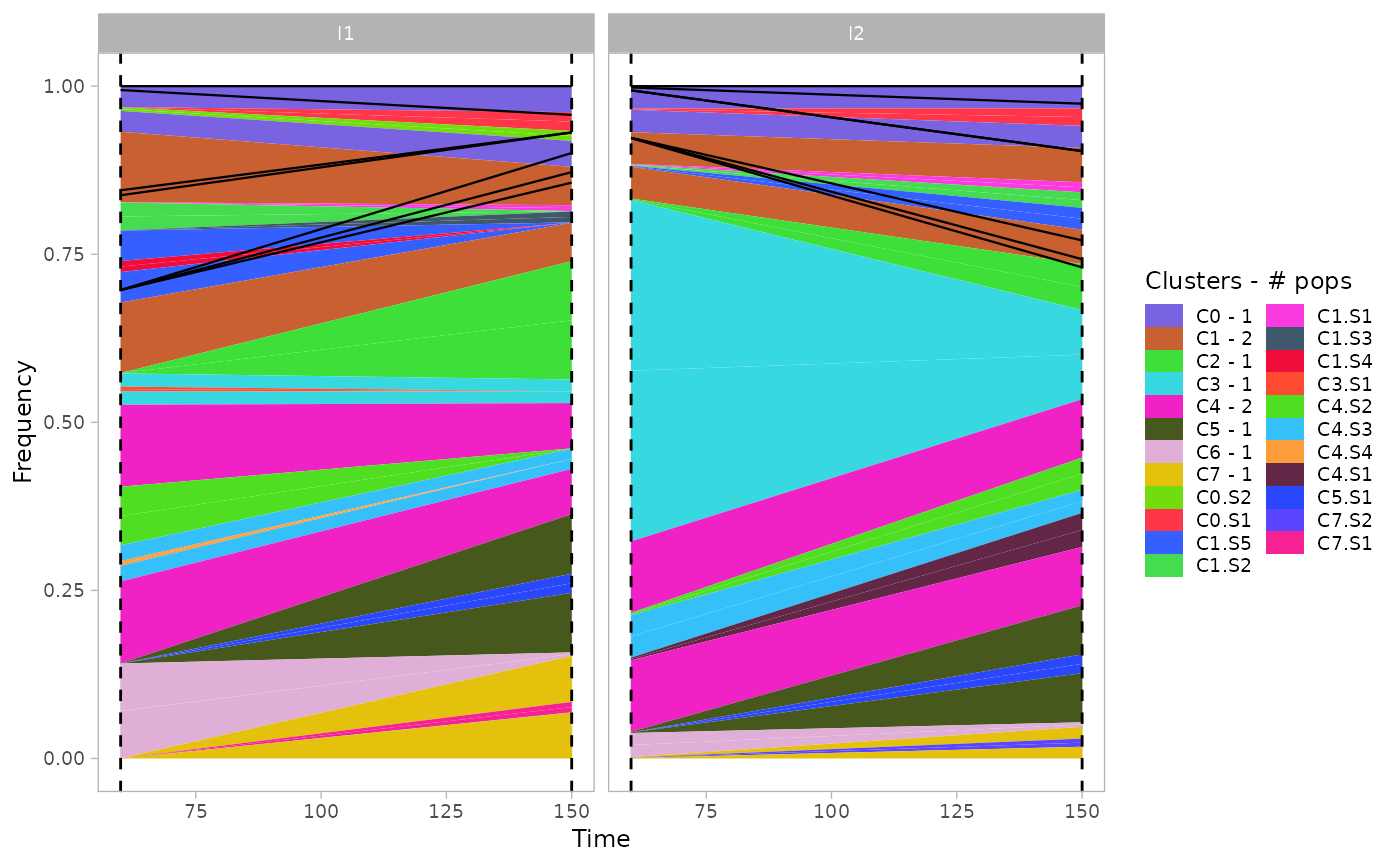
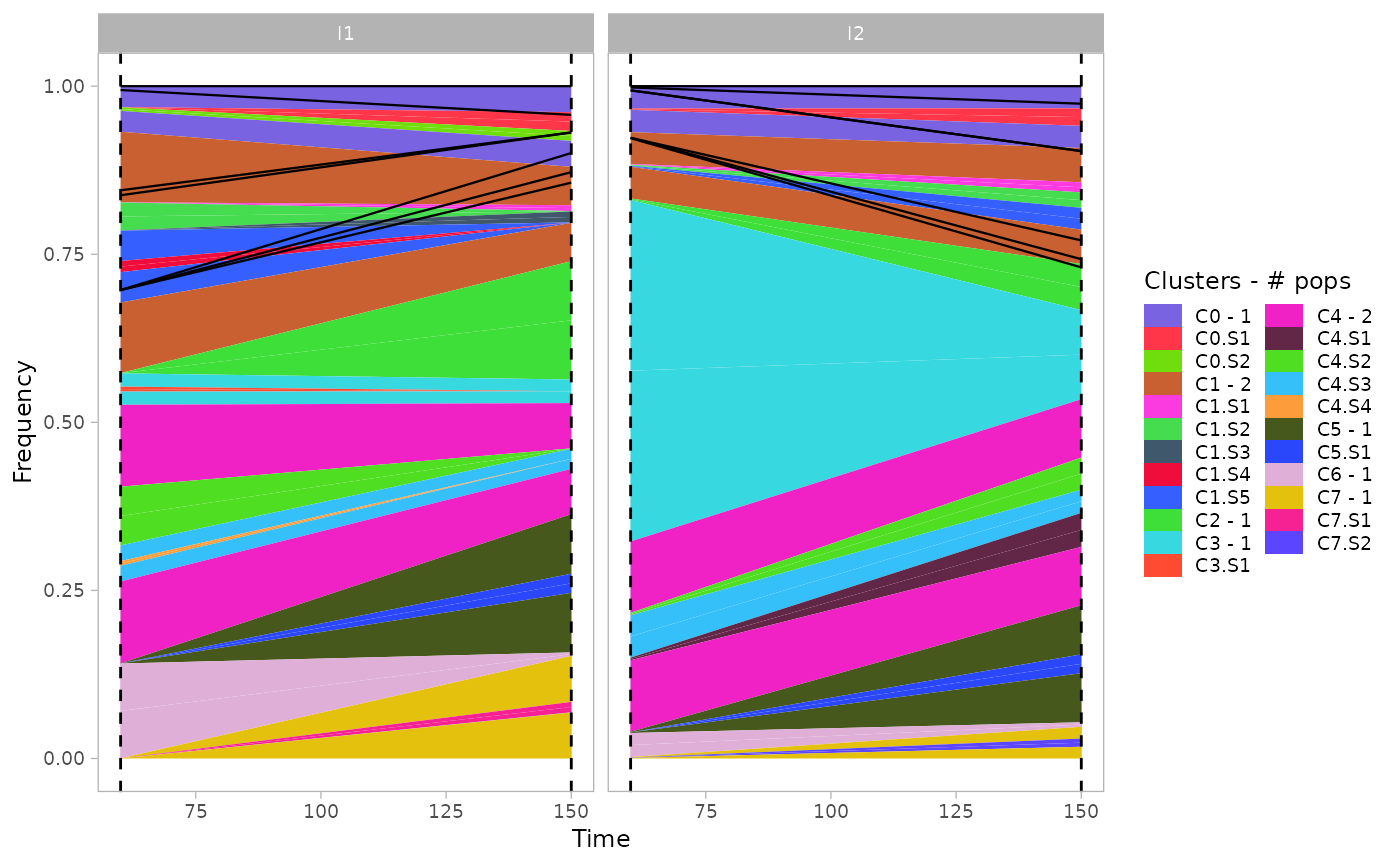
Built site for lineaGT@0.1.0: cc2a057

diff --git a/articles/Inference.html b/articles/Inference.html
@@ -138,12 +138,12 @@
 <span><span class="co">#&gt; <span style="color: #00BBBB;">ℹ</span> Input n = 3, with k &lt; 3. Dirichlet concentration <span style="color: #00BB00;">α = 1e-06</span>.</span></span>
 <span><span class="co">#&gt; <span style="color: #00BBBB;">ℹ</span> Starting clustering of clone C0 mutations<span style="color: #00BBBB;">ℹ</span> Beta (a_0, b_0) = (1, 1); q_i = prior. Optimise: ε = 1e-10 or 5000 steps, r = 10 starts.</span></span>
 <span><span class="co">#&gt; <span style="color: #00BBBB;">ℹ</span> Starting clustering of clone C0 mutations</span></span>
-<span><span class="co">#&gt; <span style="color: #00BB00;">✔</span> <span style="font-weight: bold;">VIBER fit</span> completed in 0.02 mins (status: <span style="color: #00BB00;">converged</span>)</span></span>
+<span><span class="co">#&gt; <span style="color: #00BB00;">✔</span> <span style="font-weight: bold;">VIBER fit</span> completed in 0.03 mins (status: <span style="color: #00BB00;">converged</span>)</span></span>
 <span><span class="co">#&gt; <span style="color: #00BBBB;">ℹ</span> Starting clustering of clone C0 mutations</span></span>
 <span><span class="co">#&gt; ── <span style="color: #000000; background-color: #BBBB00;">[ VIBER ] My VIBER model</span> n = 3 (w = 4 dimensions). Fit with <span style="color: #00BB00;">k = 3</span> clusters. ─</span></span>
-<span><span class="co">#&gt; <span style="color: #00BBBB;">ℹ</span> Starting clustering of clone C0 mutations• Clusters: π = 67% [<span style="color: #BBBB00;">C1</span>] and 33% [<span style="color: #BBBB00;">C2</span>], with π &gt; 0.</span></span>
-<span><span class="co">#&gt; <span style="color: #00BBBB;">ℹ</span> Starting clustering of clone C0 mutations• Binomials: θ = &lt;0.09, 0.19, 0.01, 0&gt; [<span style="color: #BBBB00;">C1</span>] and &lt;0.01, 0.36, 0.03, 0.4&gt; [<span style="color: #BBBB00;">C2</span>].</span></span>
-<span><span class="co">#&gt; <span style="color: #00BBBB;">ℹ</span> Starting clustering of clone C0 mutations<span style="color: #00BBBB;">ℹ</span> Score(s): ELBO = -1461.818. Fit <span style="color: #00BB00;">converged</span> in 6 steps, ε = 1e-10.</span></span>
+<span><span class="co">#&gt; <span style="color: #00BBBB;">ℹ</span> Starting clustering of clone C0 mutations• Clusters: π = 67% [<span style="color: #BBBB00;">C3</span>] and 33% [<span style="color: #BBBB00;">C1</span>], with π &gt; 0.</span></span>
+<span><span class="co">#&gt; <span style="color: #00BBBB;">ℹ</span> Starting clustering of clone C0 mutations• Binomials: θ = &lt;0.09, 0.19, 0.01, 0&gt; [<span style="color: #BBBB00;">C3</span>] and &lt;0.01, 0.36, 0.03, 0.4&gt; [<span style="color: #BBBB00;">C1</span>].</span></span>
+<span><span class="co">#&gt; <span style="color: #00BBBB;">ℹ</span> Starting clustering of clone C0 mutations<span style="color: #00BBBB;">ℹ</span> Score(s): ELBO = -1461.828. Fit <span style="color: #00BB00;">converged</span> in 6 steps, ε = 1e-10.</span></span>
 <span><span class="co">#&gt; <span style="color: #00BBBB;">ℹ</span> Starting clustering of clone C0 mutations<span style="color: #00BB00;">✔</span> Reduced to k = 2 (from 3) selecting VIBER cluster(s) with π &gt; 0.166666666666667, and Binomial p &gt; 0 in w &gt; 0 dimension(s).</span></span>
 <span><span class="co">#&gt; <span style="color: #00BBBB;">ℹ</span> Starting clustering of clone C0 mutations<span style="color: #00BB00;">✔</span> Starting clustering of clone C0 mutations ... done</span></span>
 <span><span class="co">#&gt; </span></span>
@@ -153,8 +153,8 @@
 <span><span class="co">#&gt; <span style="color: #949494;"># A tibble: 3 × 8</span></span></span>
 <span><span class="co">#&gt;   cluster   t1.l1 t2.l1  t1.l2 t2.l2 nMuts is.clonal is.driver</span></span>
 <span><span class="co">#&gt;   <span style="color: #949494; font-style: italic;">&lt;chr&gt;</span>     <span style="color: #949494; font-style: italic;">&lt;dbl&gt;</span> <span style="color: #949494; font-style: italic;">&lt;dbl&gt;</span>  <span style="color: #949494; font-style: italic;">&lt;dbl&gt;</span> <span style="color: #949494; font-style: italic;">&lt;dbl&gt;</span> <span style="color: #949494; font-style: italic;">&lt;dbl&gt;</span> <span style="color: #949494; font-style: italic;">&lt;lgl&gt;</span>     <span style="color: #949494; font-style: italic;">&lt;lgl&gt;</span>    </span></span>
-<span><span class="co">#&gt; <span style="color: #BCBCBC;">1</span> S1      0.085<span style="text-decoration: underline;">6</span>  0.190 0      0         2 FALSE     TRUE     </span></span>
-<span><span class="co">#&gt; <span style="color: #BCBCBC;">2</span> S2      0.006<span style="text-decoration: underline;">82</span> 0.362 0.028<span style="text-decoration: underline;">6</span> 0.396     1 FALSE     FALSE    </span></span>
+<span><span class="co">#&gt; <span style="color: #BCBCBC;">1</span> S1      0.006<span style="text-decoration: underline;">82</span> 0.362 0.028<span style="text-decoration: underline;">8</span> 0.396     1 FALSE     FALSE    </span></span>
+<span><span class="co">#&gt; <span style="color: #BCBCBC;">2</span> S2      0.085<span style="text-decoration: underline;">6</span>  0.190 0      0         2 FALSE     TRUE     </span></span>
 <span><span class="co">#&gt; <span style="color: #BCBCBC;">3</span> C0      1       1     1      1         1 TRUE      FALSE</span></span>
 <span><span class="co">#&gt; <span style="color: #00BB00;">✔</span> Trees per region <span style="color: #00BB00;">1, 2, 1, 1</span></span></span>
 <span><span class="co">#&gt; <span style="color: #00BBBB;">ℹ</span> Starting phylogeny inference of clone C0<span style="color: #00BBBB;">ℹ</span> Total <span style="color: #00BB00;">2</span> tree structures - search is <span style="font-weight: bold;">exahustive</span></span></span>
@@ -172,10 +172,10 @@
 <span><span class="co">#&gt; <span style="color: #00BB00;">✔</span> <span style="font-weight: bold;">VIBER fit</span> completed in 0.03 mins (status: <span style="color: #00BB00;">converged</span>)</span></span>
 <span><span class="co">#&gt; <span style="color: #00BBBB;">ℹ</span> Starting clustering of clone C1 mutations</span></span>
 <span><span class="co">#&gt; ── <span style="color: #000000; background-color: #BBBB00;">[ VIBER ] My VIBER model</span> n = 8 (w = 4 dimensions). Fit with <span style="color: #00BB00;">k = 8</span> clusters. ─</span></span>
-<span><span class="co">#&gt; <span style="color: #00BBBB;">ℹ</span> Starting clustering of clone C1 mutations• Clusters: π = 25% [<span style="color: #BBBB00;">C1</span>], 25% [<span style="color: #BBBB00;">C2</span>], 25% [<span style="color: #BBBB00;">C5</span>], and 25% [<span style="color: #BBBB00;">C7</span>], with π &gt; 0.</span></span>
-<span><span class="co">#&gt; <span style="color: #00BBBB;">ℹ</span> Starting clustering of clone C1 mutations• Binomials: θ = &lt;0, 0.08, 0.01, 0.15&gt; [<span style="color: #BBBB00;">C1</span>], &lt;0, 0.14, 0.01, 0&gt; [<span style="color: #BBBB00;">C2</span>], &lt;0.18, 0,</span></span>
-<span><span class="co">#&gt; 0.01, 0&gt; [<span style="color: #BBBB00;">C5</span>], and &lt;0.31, 0, 0.01, 0.27&gt; [<span style="color: #BBBB00;">C7</span>].</span></span>
-<span><span class="co">#&gt; <span style="color: #00BBBB;">ℹ</span> Starting clustering of clone C1 mutations<span style="color: #00BBBB;">ℹ</span> Score(s): ELBO = -4567.683. Fit <span style="color: #00BB00;">converged</span> in 7 steps, ε = 1e-10.</span></span>
+<span><span class="co">#&gt; <span style="color: #00BBBB;">ℹ</span> Starting clustering of clone C1 mutations• Clusters: π = 37% [<span style="color: #BBBB00;">C4</span>], 37% [<span style="color: #BBBB00;">C6</span>], 13% [<span style="color: #BBBB00;">C1</span>], and 13% [<span style="color: #BBBB00;">C3</span>], with π &gt; 0.</span></span>
+<span><span class="co">#&gt; <span style="color: #00BBBB;">ℹ</span> Starting clustering of clone C1 mutations• Binomials: θ = &lt;0, 0.13, 0.01, 0.12&gt; [<span style="color: #BBBB00;">C4</span>], &lt;0.11, 0, 0.01, 0&gt; [<span style="color: #BBBB00;">C6</span>], &lt;0.43,</span></span>
+<span><span class="co">#&gt; 0.01, 0.02, 0.32&gt; [<span style="color: #BBBB00;">C1</span>], and &lt;0.2, 0.01, 0.02, 0.23&gt; [<span style="color: #BBBB00;">C3</span>].</span></span>
+<span><span class="co">#&gt; <span style="color: #00BBBB;">ℹ</span> Starting clustering of clone C1 mutations<span style="color: #00BBBB;">ℹ</span> Score(s): ELBO = -4612.117. Fit <span style="color: #00BB00;">converged</span> in 6 steps, ε = 1e-10.</span></span>
 <span><span class="co">#&gt; <span style="color: #00BBBB;">ℹ</span> Starting clustering of clone C1 mutations<span style="color: #00BB00;">✔</span> Reduced to k = 4 (from 8) selecting VIBER cluster(s) with π &gt; 0.0625, and Binomial p &gt; 0 in w &gt; 0 dimension(s).</span></span>
 <span><span class="co">#&gt; <span style="color: #00BBBB;">ℹ</span> Starting clustering of clone C1 mutations<span style="color: #00BB00;">✔</span> Starting clustering of clone C1 mutations ... done</span></span>
 <span><span class="co">#&gt; </span></span>
@@ -185,16 +185,16 @@
 <span><span class="co">#&gt; <span style="color: #949494;"># A tibble: 5 × 8</span></span></span>
 <span><span class="co">#&gt;   cluster   t1.l1   t2.l1   t1.l2 t2.l2 nMuts is.clonal is.driver</span></span>
 <span><span class="co">#&gt;   <span style="color: #949494; font-style: italic;">&lt;chr&gt;</span>     <span style="color: #949494; font-style: italic;">&lt;dbl&gt;</span>   <span style="color: #949494; font-style: italic;">&lt;dbl&gt;</span>   <span style="color: #949494; font-style: italic;">&lt;dbl&gt;</span> <span style="color: #949494; font-style: italic;">&lt;dbl&gt;</span> <span style="color: #949494; font-style: italic;">&lt;dbl&gt;</span> <span style="color: #949494; font-style: italic;">&lt;lgl&gt;</span>     <span style="color: #949494; font-style: italic;">&lt;lgl&gt;</span>    </span></span>
-<span><span class="co">#&gt; <span style="color: #BCBCBC;">1</span> S1      0.001<span style="text-decoration: underline;">62</span> 0.075<span style="text-decoration: underline;">6</span>  0.012<span style="text-decoration: underline;">2</span>  0.147     2 FALSE     TRUE     </span></span>
-<span><span class="co">#&gt; <span style="color: #BCBCBC;">2</span> S2      0.001<span style="text-decoration: underline;">62</span> 0.142   0       0         2 FALSE     FALSE    </span></span>
-<span><span class="co">#&gt; <span style="color: #BCBCBC;">3</span> S3      0.184   0.002<span style="text-decoration: underline;">80</span> 0       0         2 FALSE     FALSE    </span></span>
-<span><span class="co">#&gt; <span style="color: #BCBCBC;">4</span> S4      0.314   0.002<span style="text-decoration: underline;">80</span> 0.008<span style="text-decoration: underline;">65</span> 0.271     2 FALSE     FALSE    </span></span>
+<span><span class="co">#&gt; <span style="color: #BCBCBC;">1</span> S1      0.430   0.005<span style="text-decoration: underline;">58</span> 0.017<span style="text-decoration: underline;">0</span>  0.318     1 FALSE     FALSE    </span></span>
+<span><span class="co">#&gt; <span style="color: #BCBCBC;">2</span> S2      0.198   0.005<span style="text-decoration: underline;">56</span> 0.017<span style="text-decoration: underline;">0</span>  0.225     1 FALSE     FALSE    </span></span>
+<span><span class="co">#&gt; <span style="color: #BCBCBC;">3</span> S3      0.001<span style="text-decoration: underline;">17</span> 0.127   0.009<span style="text-decoration: underline;">57</span> 0.124     3 FALSE     TRUE     </span></span>
+<span><span class="co">#&gt; <span style="color: #BCBCBC;">4</span> S4      0.115   0.001<span style="text-decoration: underline;">87</span> 0       0         3 FALSE     FALSE    </span></span>
 <span><span class="co">#&gt; <span style="color: #BCBCBC;">5</span> C1      1       1       1       1         1 TRUE      FALSE</span></span>
-<span><span class="co">#&gt; <span style="color: #00BB00;">✔</span> Trees per region <span style="color: #00BB00;">2, 2, 1, 2</span></span></span>
-<span><span class="co">#&gt; <span style="color: #00BBBB;">ℹ</span> Starting phylogeny inference of clone C1<span style="color: #00BBBB;">ℹ</span> Total <span style="color: #00BB00;">6</span> tree structures - search is <span style="font-weight: bold;">exahustive</span></span></span>
+<span><span class="co">#&gt; <span style="color: #00BB00;">✔</span> Trees per region <span style="color: #00BB00;">6, 1, 2, 5</span></span></span>
+<span><span class="co">#&gt; <span style="color: #00BBBB;">ℹ</span> Starting phylogeny inference of clone C1<span style="color: #00BBBB;">ℹ</span> Total <span style="color: #00BB00;">36</span> tree structures - search is <span style="font-weight: bold;">exahustive</span></span></span>
 <span><span class="co">#&gt; <span style="color: #00BBBB;">ℹ</span> Starting phylogeny inference of clone C1</span></span>
 <span><span class="co">#&gt; <span style="color: #00BBBB;">ℹ</span> Starting phylogeny inference of clone C1── Ranking trees </span></span>
-<span><span class="co">#&gt; <span style="color: #00BBBB;">ℹ</span> Starting phylogeny inference of clone C1<span style="color: #00BB00;">✔</span> <span style="color: #00BB00;">6</span>  trees with non-zero score, storing <span style="font-weight: bold;">6</span></span></span>
+<span><span class="co">#&gt; <span style="color: #00BBBB;">ℹ</span> Starting phylogeny inference of clone C1<span style="color: #00BB00;">✔</span> <span style="color: #00BB00;">24</span>  trees with non-zero score, storing <span style="font-weight: bold;">24</span></span></span>
 <span><span class="co">#&gt; <span style="color: #00BBBB;">ℹ</span> Starting phylogeny inference of clone C1<span style="color: #00BB00;">✔</span> Starting phylogeny inference of clone C1 ... done</span></span>
 <span><span class="co">#&gt; </span></span>
 <span><span class="co">#&gt; <span style="color: #00BBBB;">ℹ</span> Fitting model to cluster mutations<span style="color: #00BBBB;">ℹ</span> Starting clustering of clone C4 mutations</span></span>
@@ -206,32 +206,33 @@
 <span><span class="co">#&gt; <span style="color: #00BB00;">✔</span> <span style="font-weight: bold;">VIBER fit</span> completed in 0.03 mins (status: <span style="color: #00BB00;">converged</span>)</span></span>
 <span><span class="co">#&gt; <span style="color: #00BBBB;">ℹ</span> Starting clustering of clone C4 mutations</span></span>
 <span><span class="co">#&gt; ── <span style="color: #000000; background-color: #BBBB00;">[ VIBER ] My VIBER model</span> n = 6 (w = 4 dimensions). Fit with <span style="color: #00BB00;">k = 6</span> clusters. ─</span></span>
-<span><span class="co">#&gt; <span style="color: #00BBBB;">ℹ</span> Starting clustering of clone C4 mutations• Clusters: π = 50% [<span style="color: #BBBB00;">C4</span>], 17% [<span style="color: #BBBB00;">C1</span>], 17% [<span style="color: #BBBB00;">C2</span>], and 17% [<span style="color: #BBBB00;">C3</span>], with π &gt; 0.</span></span>
-<span><span class="co">#&gt; <span style="color: #00BBBB;">ℹ</span> Starting clustering of clone C4 mutations• Binomials: θ = &lt;0.15, 0, 0.01, 0&gt; [<span style="color: #BBBB00;">C4</span>], &lt;0, 0, 0.02, 0.29&gt; [<span style="color: #BBBB00;">C1</span>], &lt;0.19, 0.22,</span></span>
-<span><span class="co">#&gt; 0.3, 0.2&gt; [<span style="color: #BBBB00;">C2</span>], and &lt;0.36, 0, 0.02, 0.28&gt; [<span style="color: #BBBB00;">C3</span>].</span></span>
-<span><span class="co">#&gt; <span style="color: #00BBBB;">ℹ</span> Starting clustering of clone C4 mutations<span style="color: #00BBBB;">ℹ</span> Score(s): ELBO = -3594.675. Fit <span style="color: #00BB00;">converged</span> in 7 steps, ε = 1e-10.</span></span>
-<span><span class="co">#&gt; <span style="color: #00BBBB;">ℹ</span> Starting clustering of clone C4 mutations<span style="color: #00BB00;">✔</span> Reduced to k = 4 (from 6) selecting VIBER cluster(s) with π &gt; 0.0833333333333333, and Binomial p &gt; 0 in w &gt; 0 dimension(s).</span></span>
+<span><span class="co">#&gt; <span style="color: #00BBBB;">ℹ</span> Starting clustering of clone C4 mutations• Clusters: π = 33% [<span style="color: #BBBB00;">C1</span>], 17% [<span style="color: #BBBB00;">C2</span>], 17% [<span style="color: #BBBB00;">C3</span>], 17% [<span style="color: #BBBB00;">C4</span>], and 17% [<span style="color: #BBBB00;">C5</span>], with π &gt;</span></span>
+<span><span class="co">#&gt; 0.</span></span>
+<span><span class="co">#&gt; <span style="color: #00BBBB;">ℹ</span> Starting clustering of clone C4 mutations• Binomials: θ = &lt;0.22, 0, 0.01, 0&gt; [<span style="color: #BBBB00;">C1</span>], &lt;0.36, 0, 0.02, 0.28&gt; [<span style="color: #BBBB00;">C2</span>], &lt;0.19,</span></span>
+<span><span class="co">#&gt; 0.22, 0.3, 0.2&gt; [<span style="color: #BBBB00;">C3</span>], &lt;0, 0, 0.02, 0.29&gt; [<span style="color: #BBBB00;">C4</span>], and &lt;0, 0, 0.02, 0&gt; [<span style="color: #BBBB00;">C5</span>].</span></span>
+<span><span class="co">#&gt; <span style="color: #00BBBB;">ℹ</span> Starting clustering of clone C4 mutations<span style="color: #00BBBB;">ℹ</span> Score(s): ELBO = -3580.914. Fit <span style="color: #00BB00;">converged</span> in 6 steps, ε = 1e-10.</span></span>
+<span><span class="co">#&gt; <span style="color: #00BBBB;">ℹ</span> Starting clustering of clone C4 mutations<span style="color: #00BB00;">✔</span> Reduced to k = 5 (from 6) selecting VIBER cluster(s) with π &gt; 0.0833333333333333, and Binomial p &gt; 0 in w &gt; 0 dimension(s).</span></span>
 <span><span class="co">#&gt; <span style="color: #00BBBB;">ℹ</span> Starting clustering of clone C4 mutations<span style="color: #00BB00;">✔</span> Starting clustering of clone C4 mutations ... done</span></span>
 <span><span class="co">#&gt; </span></span>
 <span><span class="co">#&gt; <span style="color: #00BBBB;">ℹ</span> Fitting model to cluster mutations<span style="color: #00BBBB;">ℹ</span> Starting phylogeny inference of clone C4</span></span>
 <span><span class="co">#&gt; <span style="color: #BBBBBB; background-color: #0000BB;"> [ ctree ~ clone trees generator for C4 ] </span></span></span>
 <span><span class="co"><span style="color: #BBBBBB; background-color: #0000BB;">#&gt; </span></span></span>
-<span><span class="co">#&gt; <span style="color: #949494;"># A tibble: 5 × 8</span></span></span>
+<span><span class="co">#&gt; <span style="color: #949494;"># A tibble: 6 × 8</span></span></span>
 <span><span class="co">#&gt;   cluster t1.l1   t2.l1  t1.l2 t2.l2 nMuts is.clonal is.driver</span></span>
 <span><span class="co">#&gt;   <span style="color: #949494; font-style: italic;">&lt;chr&gt;</span>   <span style="color: #949494; font-style: italic;">&lt;dbl&gt;</span>   <span style="color: #949494; font-style: italic;">&lt;dbl&gt;</span>  <span style="color: #949494; font-style: italic;">&lt;dbl&gt;</span> <span style="color: #949494; font-style: italic;">&lt;dbl&gt;</span> <span style="color: #949494; font-style: italic;">&lt;dbl&gt;</span> <span style="color: #949494; font-style: italic;">&lt;lgl&gt;</span>     <span style="color: #949494; font-style: italic;">&lt;lgl&gt;</span>    </span></span>
-<span><span class="co">#&gt; <span style="color: #BCBCBC;">1</span> S1      0     0       0.018<span style="text-decoration: underline;">7</span> 0.292     1 FALSE     TRUE     </span></span>
-<span><span class="co">#&gt; <span style="color: #BCBCBC;">2</span> S2      0.192 0.222   0.296  0.198     1 FALSE     FALSE    </span></span>
-<span><span class="co">#&gt; <span style="color: #BCBCBC;">3</span> S3      0.358 0.004<span style="text-decoration: underline;">76</span> 0.017<span style="text-decoration: underline;">0</span> 0.275     1 FALSE     FALSE    </span></span>
-<span><span class="co">#&gt; <span style="color: #BCBCBC;">4</span> S4      0.146 0.001<span style="text-decoration: underline;">58</span> 0      0         3 FALSE     FALSE    </span></span>
-<span><span class="co">#&gt; <span style="color: #BCBCBC;">5</span> C4      1     1       1      1         1 TRUE      FALSE</span></span>
-<span><span class="co">#&gt; <span style="color: #00BB00;">✔</span> Trees per region <span style="color: #00BB00;">6, 1, 6, 5</span></span></span>
-<span><span class="co">#&gt; <span style="color: #00BBBB;">ℹ</span> Starting phylogeny inference of clone C4<span style="color: #00BBBB;">ℹ</span> Total <span style="color: #00BB00;">54</span> tree structures - search is <span style="font-weight: bold;">exahustive</span></span></span>
-<span><span class="co">#&gt; <span style="color: #00BBBB;">ℹ</span> Starting phylogeny inference of clone C4</span></span>
-<span><span class="co">#&gt; <span style="color: #00BBBB;">ℹ</span> Starting phylogeny inference of clone C4── Ranking trees </span></span>
-<span><span class="co">#&gt; <span style="color: #00BBBB;">ℹ</span> Starting phylogeny inference of clone C4<span style="color: #00BB00;">✔</span> <span style="color: #00BB00;">33</span>  trees with non-zero score, storing <span style="font-weight: bold;">33</span></span></span>
-<span><span class="co">#&gt; <span style="color: #00BBBB;">ℹ</span> Starting phylogeny inference of clone C4<span style="color: #00BB00;">✔</span> Starting phylogeny inference of clone C4 ... done</span></span>
+<span><span class="co">#&gt; <span style="color: #BCBCBC;">1</span> S1      0.219 0.002<span style="text-decoration: underline;">39</span> 0      0         2 FALSE     FALSE    </span></span>
+<span><span class="co">#&gt; <span style="color: #BCBCBC;">2</span> S2      0.358 0.004<span style="text-decoration: underline;">76</span> 0.017<span style="text-decoration: underline;">0</span> 0.275     1 FALSE     FALSE    </span></span>
+<span><span class="co">#&gt; <span style="color: #BCBCBC;">3</span> S3      0.192 0.222   0.296  0.198     1 FALSE     FALSE    </span></span>
+<span><span class="co">#&gt; <span style="color: #BCBCBC;">4</span> S4      0     0       0.018<span style="text-decoration: underline;">6</span> 0.292     1 FALSE     TRUE     </span></span>
+<span><span class="co">#&gt; <span style="color: #BCBCBC;">5</span> S5      0     0       0      0         1 FALSE     FALSE    </span></span>
+<span><span class="co">#&gt; <span style="color: #BCBCBC;">6</span> C4      1     1       1      1         1 TRUE      FALSE</span></span>
+<span><span class="co">#&gt; <span style="color: #00BB00;">✔</span> Trees per region <span style="color: #00BB00;">5, 1, 6, 5</span></span></span>
+<span><span class="co">#&gt; <span style="color: #00BBBB;">ℹ</span> Starting phylogeny inference of clone C4<span style="color: #00BBBB;">ℹ</span> Total <span style="color: #00BB00;">48</span> tree structures - search is <span style="font-weight: bold;">exahustive</span></span></span>
+<span><span class="co">#&gt; <span style="color: #00BBBB;">ℹ</span> Starting phylogeny inference of clone C4<span style="color: #BB0000;">✖</span> Starting phylogeny inference of clone C4 ... failed</span></span>
 <span><span class="co">#&gt; </span></span>
-<span><span class="co">#&gt; <span style="color: #00BBBB;">ℹ</span> Fitting model to cluster mutations<span style="color: #00BBBB;">ℹ</span> Starting clustering of clone C7 mutations</span></span>
+<span><span class="co">#&gt; <span style="color: #00BBBB;">ℹ</span> Fitting model to cluster mutations</span></span>
+<span><span class="co">#&gt; &lt;subscriptOutOfBoundsError in model[var, ]: subscript out of bounds&gt;</span></span>
+<span><span class="co">#&gt; <span style="color: #00BBBB;">ℹ</span> Starting clustering of clone C7 mutations</span></span>
 <span><span class="co">#&gt; <span style="color: #BBBBBB; background-color: #0000BB;"> [ VIBER - variational fit ] </span></span></span>
 <span><span class="co"><span style="color: #BBBBBB; background-color: #0000BB;">#&gt; </span></span></span>
 <span><span class="co">#&gt; <span style="color: #00BBBB;">ℹ</span> Input n = 2, with k &lt; 2. Dirichlet concentration <span style="color: #00BB00;">α = 1e-06</span>.</span></span>
@@ -241,8 +242,8 @@
 <span><span class="co">#&gt; <span style="color: #00BBBB;">ℹ</span> Starting clustering of clone C7 mutations</span></span>
 <span><span class="co">#&gt; ── <span style="color: #000000; background-color: #BBBB00;">[ VIBER ] My VIBER model</span> n = 2 (w = 4 dimensions). Fit with <span style="color: #00BB00;">k = 2</span> clusters. ─</span></span>
 <span><span class="co">#&gt; <span style="color: #00BBBB;">ℹ</span> Starting clustering of clone C7 mutations• Clusters: π = 50% [<span style="color: #BBBB00;">C1</span>] and 50% [<span style="color: #BBBB00;">C2</span>], with π &gt; 0.</span></span>
-<span><span class="co">#&gt; <span style="color: #00BBBB;">ℹ</span> Starting clustering of clone C7 mutations• Binomials: θ = &lt;0.4, 0, 0.31, 0.35&gt; [<span style="color: #BBBB00;">C1</span>] and &lt;0.01, 0.11, 0, 0&gt; [<span style="color: #BBBB00;">C2</span>].</span></span>
-<span><span class="co">#&gt; <span style="color: #00BBBB;">ℹ</span> Starting clustering of clone C7 mutations<span style="color: #00BBBB;">ℹ</span> Score(s): ELBO = -1584.547. Fit <span style="color: #00BB00;">converged</span> in 5 steps, ε = 1e-10.</span></span>
+<span><span class="co">#&gt; <span style="color: #00BBBB;">ℹ</span> Starting clustering of clone C7 mutations• Binomials: θ = &lt;0.01, 0.11, 0, 0&gt; [<span style="color: #BBBB00;">C1</span>] and &lt;0.4, 0, 0.31, 0.35&gt; [<span style="color: #BBBB00;">C2</span>].</span></span>
+<span><span class="co">#&gt; <span style="color: #00BBBB;">ℹ</span> Starting clustering of clone C7 mutations<span style="color: #00BBBB;">ℹ</span> Score(s): ELBO = -1584.511. Fit <span style="color: #00BB00;">converged</span> in 5 steps, ε = 1e-10.</span></span>
 <span><span class="co">#&gt; <span style="color: #00BBBB;">ℹ</span> Starting clustering of clone C7 mutations<span style="color: #00BB00;">✔</span> Starting clustering of clone C7 mutations ... done</span></span>
 <span><span class="co">#&gt; </span></span>
 <span><span class="co">#&gt; <span style="color: #00BBBB;">ℹ</span> Fitting model to cluster mutations<span style="color: #00BBBB;">ℹ</span> Starting phylogeny inference of clone C7</span></span>
@@ -251,8 +252,8 @@
 <span><span class="co">#&gt; <span style="color: #949494;"># A tibble: 3 × 8</span></span></span>
 <span><span class="co">#&gt;   cluster  t1.l1   t2.l1 t1.l2 t2.l2 nMuts is.clonal is.driver</span></span>
 <span><span class="co">#&gt;   <span style="color: #949494; font-style: italic;">&lt;chr&gt;</span>    <span style="color: #949494; font-style: italic;">&lt;dbl&gt;</span>   <span style="color: #949494; font-style: italic;">&lt;dbl&gt;</span> <span style="color: #949494; font-style: italic;">&lt;dbl&gt;</span> <span style="color: #949494; font-style: italic;">&lt;dbl&gt;</span> <span style="color: #949494; font-style: italic;">&lt;dbl&gt;</span> <span style="color: #949494; font-style: italic;">&lt;lgl&gt;</span>     <span style="color: #949494; font-style: italic;">&lt;lgl&gt;</span>    </span></span>
-<span><span class="co">#&gt; <span style="color: #BCBCBC;">1</span> S1      0.396  0.002<span style="text-decoration: underline;">34</span> 0.308 0.348     1 FALSE     TRUE     </span></span>
-<span><span class="co">#&gt; <span style="color: #BCBCBC;">2</span> S2      0.010<span style="text-decoration: underline;">5</span> 0.112   0     0         1 FALSE     FALSE    </span></span>
+<span><span class="co">#&gt; <span style="color: #BCBCBC;">1</span> S1      0.010<span style="text-decoration: underline;">4</span> 0.112   0     0         1 FALSE     FALSE    </span></span>
+<span><span class="co">#&gt; <span style="color: #BCBCBC;">2</span> S2      0.396  0.002<span style="text-decoration: underline;">34</span> 0.308 0.348     1 FALSE     TRUE     </span></span>
 <span><span class="co">#&gt; <span style="color: #BCBCBC;">3</span> C7      1      1       1     1         1 TRUE      FALSE</span></span>
 <span><span class="co">#&gt; <span style="color: #00BB00;">✔</span> Trees per region <span style="color: #00BB00;">2, 1, 1, 1</span></span></span>
 <span><span class="co">#&gt; <span style="color: #00BBBB;">ℹ</span> Starting phylogeny inference of clone C7<span style="color: #00BBBB;">ℹ</span> Total <span style="color: #00BB00;">2</span> tree structures - search is <span style="font-weight: bold;">exahustive</span></span></span>
